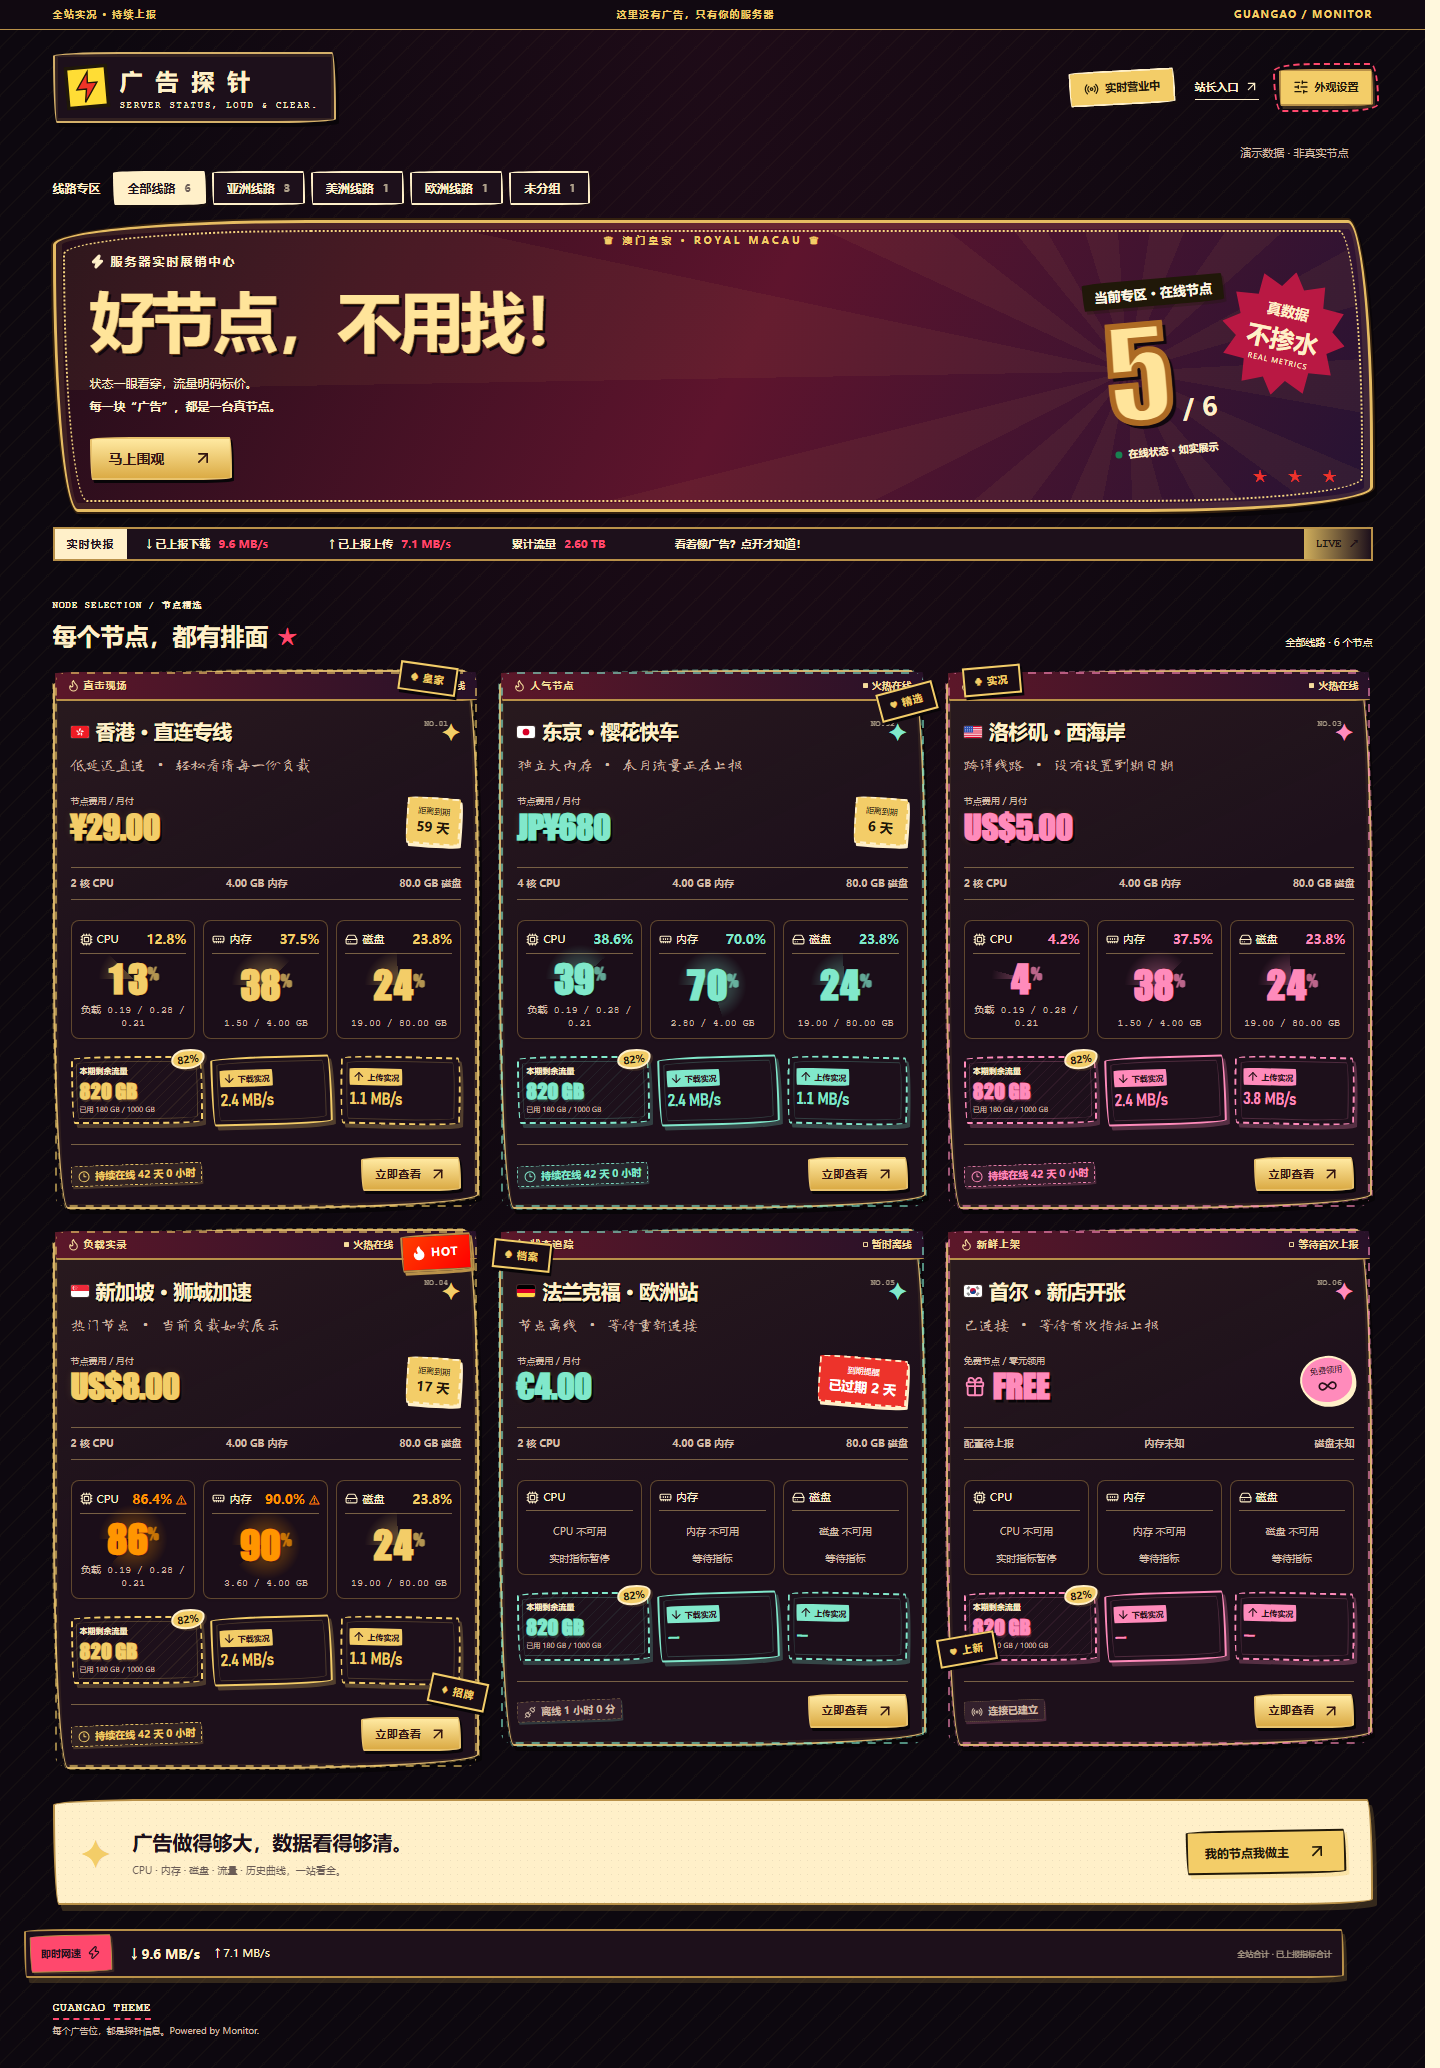
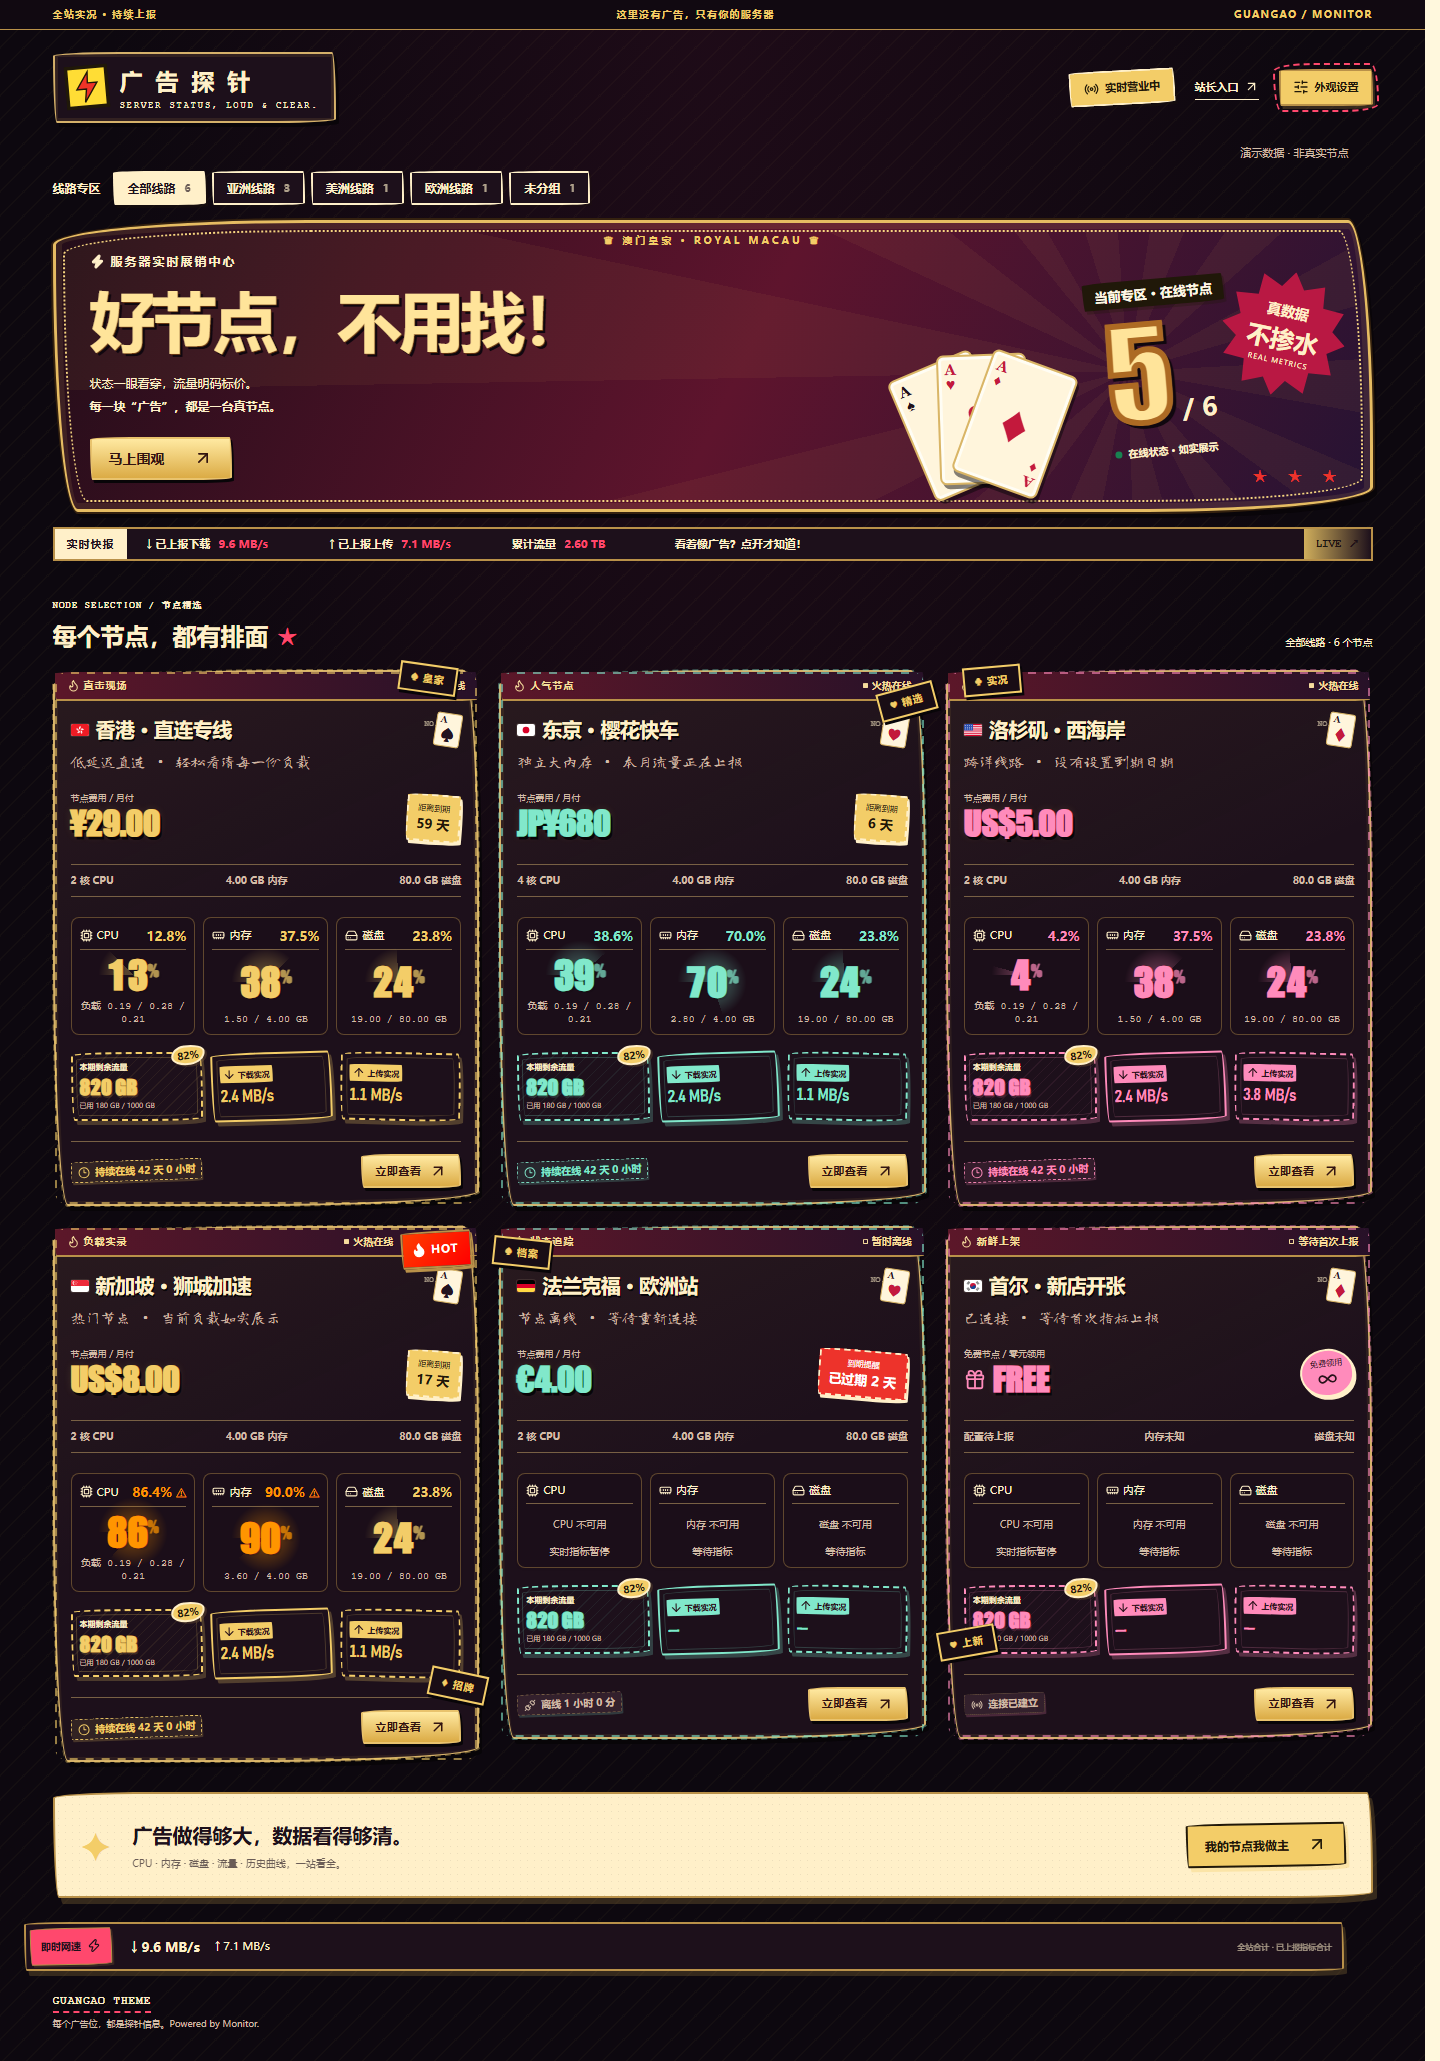
feat: add visible playing card faces to royal skin

diff --git a/src/monitor-wall.css b/src/monitor-wall.css
@@ -2525,3 +2525,93 @@ select:focus-visible {
 [data-variant="neon"] .resource-track { background: #33202c; border-color: #786044; box-shadow: none; }
 [data-variant="neon"] .resource-track > span { background: var(--tone); box-shadow: none; }
 @media (max-width: 640px) { .royal-sign { font-size: 8px; letter-spacing: 1px; } }
+
+.royal-card-fan {
+  position: absolute;
+  right: 280px;
+  bottom: 25px;
+  width: 205px;
+  height: 155px;
+  pointer-events: none;
+}
+.royal-playing-card {
+  position: absolute;
+  left: 56px;
+  bottom: 0;
+  width: 90px;
+  height: 130px;
+  background: #fff5dc;
+  border: 2px solid #d9b566;
+  border-radius: 7px;
+  box-shadow: 3px 4px 0 #08050880, inset 0 0 0 3px #fffdf4;
+  color: #20121a;
+  transform-origin: 50% 115%;
+  transform: rotate(-23deg);
+  font-family: Georgia, "Times New Roman", serif;
+}
+.royal-playing-card:nth-child(2) { transform: rotate(-2deg); }
+.royal-playing-card:nth-child(3) { transform: rotate(20deg); }
+.royal-playing-card.is-red { color: #c3193c; }
+.royal-playing-card small {
+  position: absolute;
+  top: 5px;
+  left: 6px;
+  font-size: 15px;
+  line-height: 1;
+  font-weight: 700;
+  text-align: center;
+}
+.royal-playing-card small:last-child {
+  top: auto;
+  left: auto;
+  right: 6px;
+  bottom: 5px;
+  transform: rotate(180deg);
+}
+.royal-playing-card b {
+  position: absolute;
+  inset: 0;
+  display: grid;
+  place-items: center;
+  font-size: 54px;
+  font-weight: 400;
+}
+[data-variant="neon"] .title-spark {
+  position: relative;
+  flex-shrink: 0;
+  width: 26px;
+  height: 34px;
+  border: 1px solid #d9b566;
+  border-radius: 3px;
+  background: #fff5dc;
+  color: #231420;
+  font-size: 0;
+  transform: rotate(9deg);
+  animation: none !important;
+}
+[data-variant="neon"] .title-spark::before {
+  content: "A";
+  position: absolute;
+  top: 1px;
+  left: 3px;
+  font: bold 9px Georgia, serif;
+}
+[data-variant="neon"] .title-spark::after {
+  content: "♠";
+  position: absolute;
+  inset: 5px 0 0;
+  display: grid;
+  place-items: center;
+  font-size: 20px;
+}
+[data-variant="neon"] .tone-1 .title-spark::after,
+[data-variant="neon"] .tone-4 .title-spark::after { content: "♥"; color: #c3193c; }
+[data-variant="neon"] .tone-2 .title-spark::after,
+[data-variant="neon"] .tone-5 .title-spark::after { content: "♦"; color: #c3193c; }
+@media (max-width: 1100px) and (min-width: 641px) {
+  .royal-card-fan { right: 215px; bottom: 15px; transform: scale(.7); transform-origin: bottom right; }
+}
+@media (max-width: 640px) {
+  .royal-card-fan { right: 14px; bottom: 24px; transform: scale(.6); transform-origin: bottom right; }
+  [data-variant="neon"] .hero-burst { display: none; }
+}

diff --git a/tests/royal-cards.spec.ts b/tests/royal-cards.spec.ts
@@ -1,0 +1,21 @@
+import { test, expect } from '@playwright/test';
+
+test('royal playing cards are visible without covering live counts or actions on desktop and mobile', async ({ page }) => {
+  await page.route('**/api/themes/monitor-theme-guangao/config', route => route.fulfill({ json: { variant: 'neon' } }));
+  await page.goto('/');
+  for (const width of [1600, 390]) {
+    await page.setViewportSize({ width, height: 900 });
+    await expect(page.locator('.royal-playing-card')).toHaveCount(3);
+    await expect(page.locator('.royal-card-fan')).toBeVisible();
+    const fan = await page.locator('.royal-card-fan').boundingBox();
+    const count = await page.getByTestId('online-count').boundingBox();
+    expect(fan!.x >= count!.x + count!.width || fan!.x + fan!.width <= count!.x ||
+      fan!.y >= count!.y + count!.height || fan!.y + fan!.height <= count!.y).toBe(true);
+    const heroButton = page.getByRole('link', { name: '马上围观' });
+    await heroButton.click();
+    await expect(page).toHaveURL(/#nodes$/);
+    await expect(page.locator('.node-card .title-spark').first()).toHaveCSS('background-color', 'rgb(255, 245, 220)');
+    expect(await page.evaluate(() => document.documentElement.scrollWidth <= innerWidth)).toBe(true);
+    await page.evaluate(() => scrollTo(0, 0));
+  }
+});

diff --git a/src/App.tsx b/src/App.tsx
@@ -366,7 +366,18 @@ export default function App() {
                 aria-label="节点汇总"
               >
                 {variant === "neon" && (
-                  <span className="royal-sign" aria-hidden="true">♛ 澳门皇家 · ROYAL MACAU ♛</span>
+                  <>
+                    <span className="royal-sign" aria-hidden="true">♛ 澳门皇家 · ROYAL MACAU ♛</span>
+                    <div className="royal-card-fan" aria-hidden="true">
+                      {["♠", "♥", "♦"].map((suit) => (
+                        <span className={`royal-playing-card ${suit === "♠" ? "is-black" : "is-red"}`} key={suit}>
+                          <small>A<br />{suit}</small>
+                          <b>{suit}</b>
+                          <small>A<br />{suit}</small>
+                        </span>
+                      ))}
+                    </div>
+                  </>
                 )}
                 <div className="hero-copy">
                   <span className="eyebrow">
